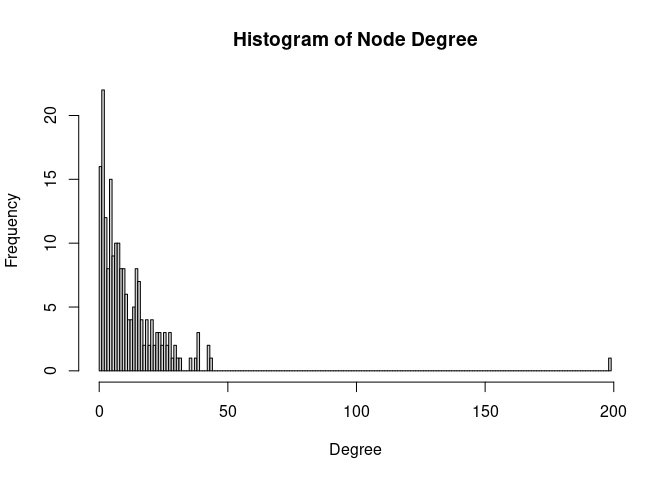
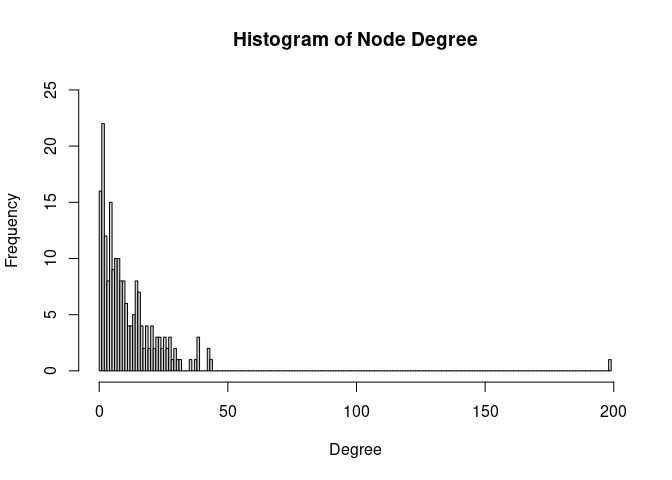
remove README

diff --git a/network_analysis.md b/network_analysis.md
@@ -75,7 +75,7 @@ cmd.string = 'string protein query query="TP53" cutoff=0.9 species="Homo sapiens
 commandsRun(cmd.string)
 ```
 
-    ## [1] "Loaded network 'STRING network - TP53 - 5' with 200 nodes and 1227 edges"
+    ## [1] "Loaded network 'STRING network - TP53 - 6' with 200 nodes and 1227 edges"
 
 **Transfer data**
 
@@ -163,7 +163,7 @@ Removal of this point would destroy the whole network.
 articulation.points(network)
 ```
 
-    ## + 1/200 vertex, named, from 302ad71:
+    ## + 1/200 vertex, named, from 2f053a7:
     ## [1] 9606.ENSP00000269305
 
 **Degree centrality and degree distribution**
@@ -173,6 +173,7 @@ The degree tells us the number of edges that connect to a node.
 ``` r
 deg <- degree(network, mode="all")
 hist(deg, breaks=1:vcount(network)-1, 
+     ylim = range(pretty(c(0,table(deg)))),
      main="Histogram of Node Degree",
      xlab = "Degree")
 ```
